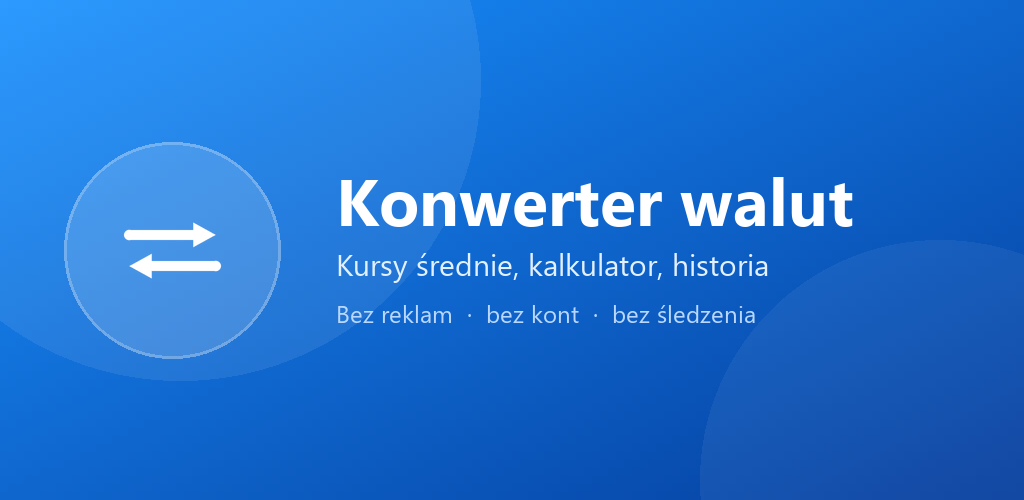
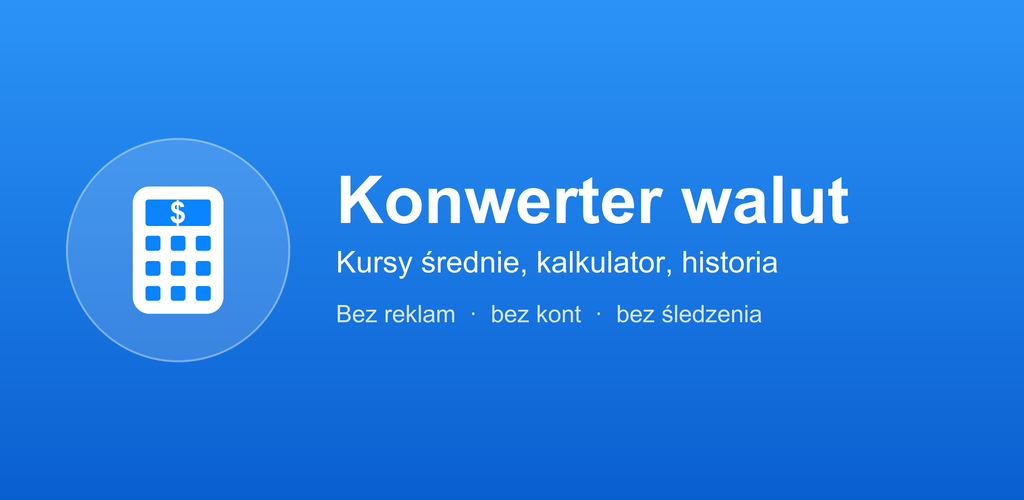
og.png z kalkulatorem + generator
Obrazek podgladu spolecznosciowego odtworzony z kalkulatorem zamiast strzalek
(spojnie z ikona apki i logo strony): polprzezroczysty badge, bialy kalkulator
z niebieskim wyswietlaczem ($) i przyciskami, nazwa + podtytul.

tools/generate_og.py: generator (Pillow) — bylo recznym plikiem, teraz
regenerowalny jak reszta grafik.

diff --git a/tools/generate_og.py b/tools/generate_og.py
@@ -1,0 +1,112 @@
+"""Generuje obrazek podgladu spolecznosciowego og.png (1024x500).
+
+Niebieskie tlo marki, po lewej okragly badge z bialym kalkulatorem (ten sam
+motyw co ikona aplikacji), po prawej nazwa i podtytul. Rysujemy kodem, zeby
+zmiana napisu albo koloru byla jedna linijka.
+
+Uruchomienie:  python tools/generate_og.py
+Wymaga:        Pillow
+"""
+
+from pathlib import Path
+
+from PIL import Image, ImageDraw, ImageFont
+
+OUT = Path(__file__).resolve().parent.parent / "og.png"
+
+W, H = 1024, 500
+BRAND = (10, 132, 255)
+WHITE = (255, 255, 255)
+TOP = (43, 147, 247)   # jasniejszy niebieski u gory
+BOTTOM = (10, 95, 208)  # ciemniejszy u dolu
+SS = 4  # supersampling dla gladkich krawedzi
+
+_BOLD = ["C:/Windows/Fonts/arialbd.ttf", "arialbd.ttf", "DejaVuSans-Bold.ttf"]
+_REG = ["C:/Windows/Fonts/arial.ttf", "arial.ttf", "DejaVuSans.ttf"]
+
+
+def font(paths, px):
+    for p in paths:
+        try:
+            return ImageFont.truetype(p, int(px))
+        except OSError:
+            continue
+    return ImageFont.load_default()
+
+
+def gradient(w, h):
+    img = Image.new("RGB", (w, h))
+    draw = ImageDraw.Draw(img)
+    for y in range(h):
+        t = y / (h - 1)
+        color = tuple(round(TOP[i] + (BOTTOM[i] - TOP[i]) * t) for i in range(3))
+        draw.line([(0, y), (w, y)], fill=color)
+    return img
+
+
+def calculator(size):
+    """Bialy kalkulator z niebieskim wyswietlaczem ($) i przyciskami."""
+    img = Image.new("RGBA", (size, size), (0, 0, 0, 0))
+    d = ImageDraw.Draw(img)
+
+    bw, bh = size * 0.60, size * 0.84
+    bx, by = (size - bw) / 2, (size - bh) / 2
+    d.rounded_rectangle([bx, by, bx + bw, by + bh], radius=size * 0.11, fill=WHITE)
+
+    pad = size * 0.085
+    ix0, iy0 = bx + pad, by + pad
+    ix1, iy1 = bx + bw - pad, by + bh - pad
+    iw, ih = ix1 - ix0, iy1 - iy0
+    r = size * 0.018
+
+    disp_h = ih * 0.26
+    d.rounded_rectangle([ix0, iy0, ix1, iy0 + disp_h], radius=r, fill=BRAND)
+    d.text((ix0 + iw / 2, iy0 + disp_h / 2), "$", font=font(_BOLD, disp_h * 1.15),
+           fill=WHITE, anchor="mm")
+
+    grid_top = iy0 + disp_h + ih * 0.10
+    gh = iy1 - grid_top
+    gap = iw * 0.16
+    kw = (iw - gap * 2) / 3
+    kh = (gh - gap * 2) / 3
+    for row in range(3):
+        for col in range(3):
+            x0 = ix0 + col * (kw + gap)
+            y0 = grid_top + row * (kh + gap)
+            d.rounded_rectangle([x0, y0, x0 + kw, y0 + kh], radius=r, fill=BRAND)
+    return img
+
+
+def main():
+    base = gradient(W * SS, H * SS).convert("RGBA")
+
+    # Badge na osobnej warstwie i alpha_composite — inaczej „biel z alfa"
+    # przy splaszczeniu do RGB wychodzi w pelni biala, nie polprzezroczysta.
+    cx, cy, rad = 178 * SS, 250 * SS, 112 * SS
+    overlay = Image.new("RGBA", base.size, (0, 0, 0, 0))
+    od = ImageDraw.Draw(overlay)
+    od.ellipse([cx - rad, cy - rad, cx + rad, cy + rad], fill=(255, 255, 255, 40))
+    od.ellipse([cx - rad, cy - rad, cx + rad, cy + rad],
+               outline=(255, 255, 255, 110), width=2 * SS)
+    base.alpha_composite(overlay)
+
+    cal = calculator(int(rad * 1.35))
+    base.alpha_composite(cal, (cx - cal.width // 2, cy - cal.height // 2))
+
+    # Teksty po prawej.
+    d = ImageDraw.Draw(base)
+    tx = 336 * SS
+    d.text((tx, 200 * SS), "Konwerter walut", font=font(_BOLD, 66 * SS),
+           fill=WHITE, anchor="lm")
+    d.text((tx, 262 * SS), "Kursy średnie, kalkulator, historia",
+           font=font(_REG, 30 * SS), fill=WHITE, anchor="lm")
+    d.text((tx, 314 * SS), "Bez reklam  ·  bez kont  ·  bez śledzenia",
+           font=font(_REG, 24 * SS), fill=(214, 231, 252), anchor="lm")
+
+    out = base.resize((W, H), Image.LANCZOS).convert("RGB")
+    out.save(OUT, "PNG")
+    print(f"  {OUT.name}  {out.width}x{out.height}")
+
+
+if __name__ == "__main__":
+    main()